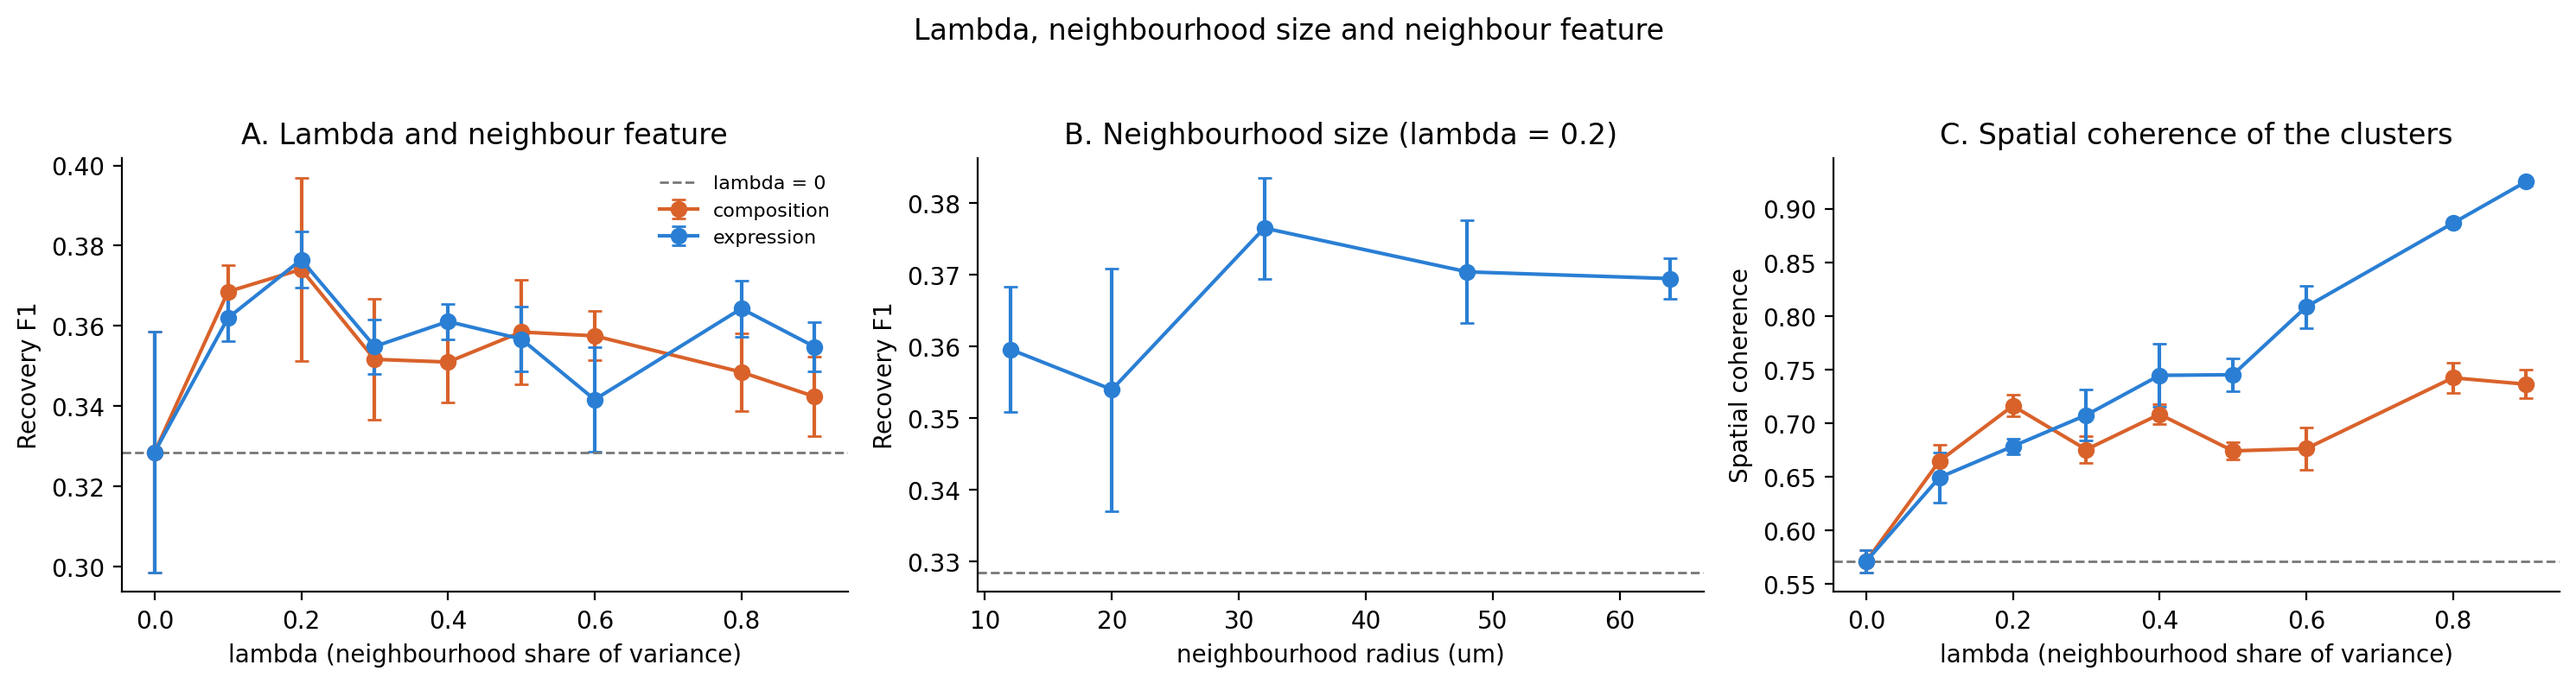
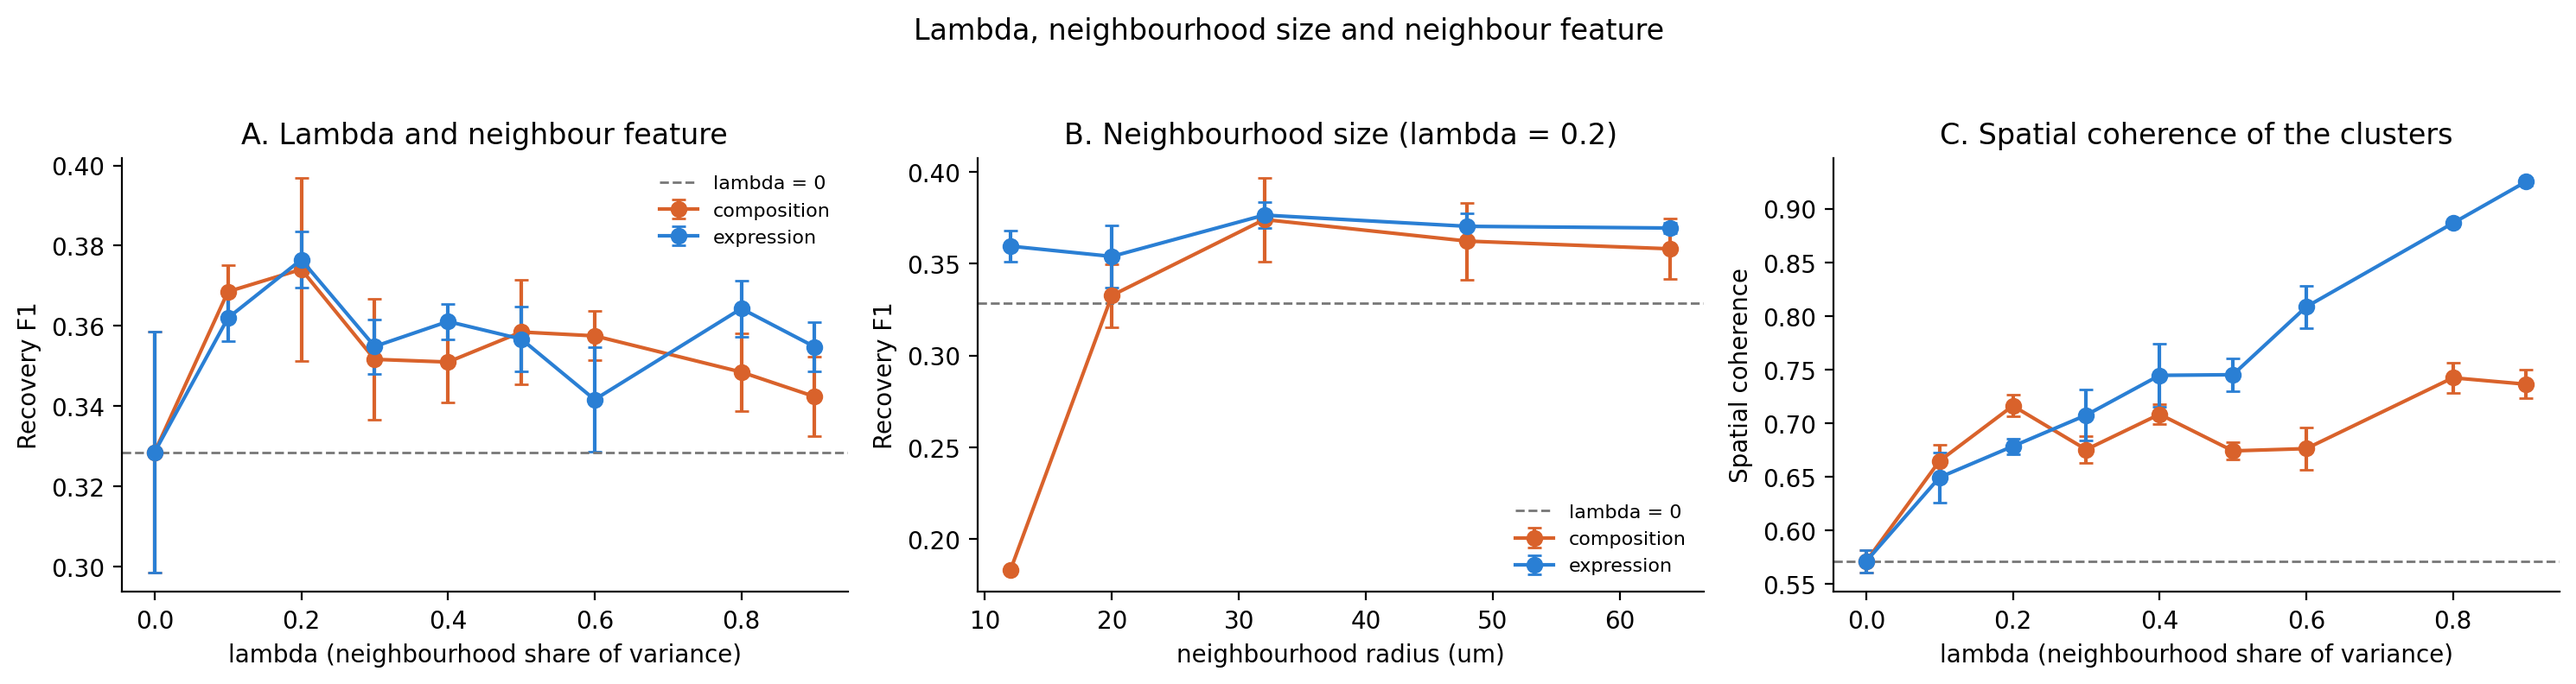
Update Figure 2 and README

diff --git a/README.md b/README.md
@@ -207,13 +207,13 @@ All 12 graph and weighting combinations scored 0.353 to 0.377, and the best cell
 
 ![Figure 2](figures/02_lambda_scale_sweep.png)
 
-**Figure 2. Neighbourhood weight, size and feature.** (A) Recovery F1 against $\lambda$ for the neighbour feature mean expression (blue) and cell-type composition (orange), using a radius of 32 µm and reciprocal weights. The dashed line is $\lambda = 0$. (B) Recovery F1 against neighbourhood radius at $\lambda = 0.2$ (about 8, 20, 48, 112 and 195 neighbours for 12, 20, 32, 48 and 64 µm). (C) Spatial coherence of the clusters against $\lambda$. Error bars are the seed standard deviation.
+**Figure 2. Neighbourhood weight, size and feature.** (A) Recovery F1 against $\lambda$ for the neighbour feature mean expression (blue) and cell-type composition (orange), using a radius of 32 µm and reciprocal weights. The dashed line is $\lambda = 0$. (B) Recovery F1 against neighbourhood radius at $\lambda = 0.2$ for both neighbour features (about 8, 20, 48, 112 and 195 neighbours for 12, 20, 32, 48 and 64 µm). (C) Spatial coherence of the clusters against $\lambda$. Error bars are the seed standard deviation.
 
 - **$\lambda$ saturates early.** Recovery F1 peaks at $\lambda = 0.2$ (0.377) and stays within noise of 0.34-0.36 from 0.1 to 0.9. Larger $\lambda$ mainly raises spatial coherence (0.68 to 0.93), which means smoother clusters, not closer agreement with the reference labels.
-- **Mean expression is at least as good as composition.** Composition matches it on recovery F1 at $\lambda \leq 0.2$ but its pair ARI is clearly lower at every $\lambda \geq 0.3$.
-- **Neighbourhood size matters little.** All radii fall within 0.02 of each other, with 32 µm nominally best (0.377).
+- **Mean expression is at least as good as composition.** Composition matches it on recovery F1 at $\lambda \leq 0.2$, but its pair ARI is clearly lower at every $\lambda \geq 0.3$. The two features also respond differently to neighbourhood size: expression stays above the $\lambda = 0$ baseline at every radius, while composition collapses in small neighbourhoods (about 0.18 at 12 µm and about 0.33 at 20 µm, no better than $\lambda = 0$). From 32 µm upward (about 48 or more neighbours) the two are within noise of each other.
+- **For mean expression, neighbourhood size matters little.** All radii fall within 0.02 of each other, with 32 µm nominally best (0.377). Composition needs a larger neighbourhood to work, probably because cell-type fractions computed from only a handful of neighbours are too coarse to be informative.
 
-A reasonable default is therefore about 48 neighbours (radius or kNN) with $\lambda$ between 0.1 and 0.2. That is a sensible starting point, not a demonstrated optimum.
+A reasonable default is therefore about 48 neighbours (radius or kNN) with $\lambda$ between 0.1 and 0.2. That is a sensible starting point, not a demonstrated optimum. If you use the composition option, avoid small neighbourhoods (below about 20 neighbours).
 
 ### What do the final subtypes look like?
 
